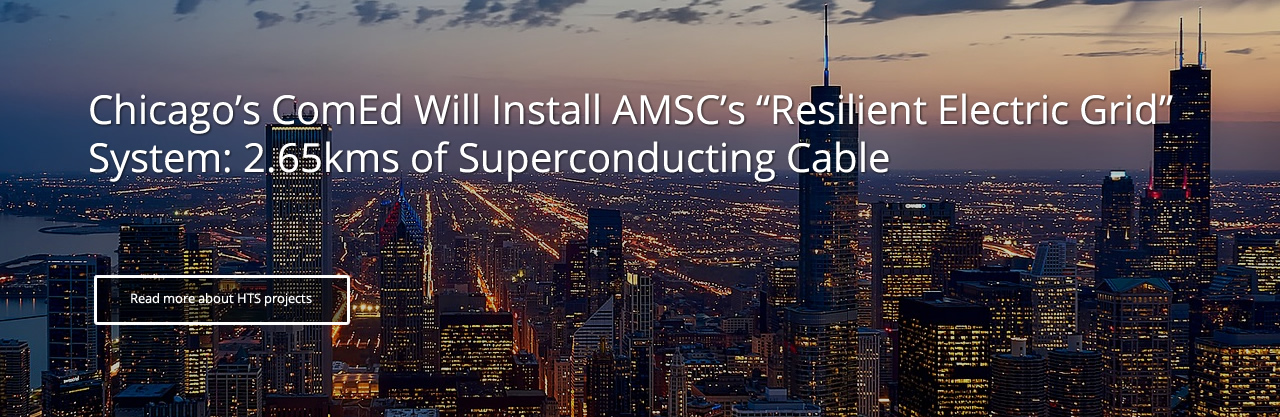
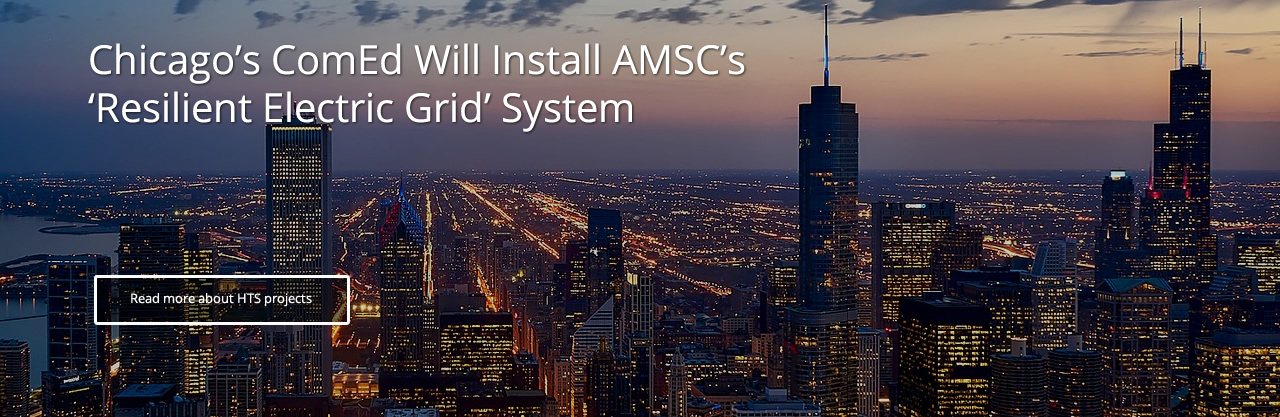
updated title and text

Changed region(s): [[0.0625, 0.0935, 0.9375, 0.3118], [0.0625, 0.3429, 0.7188, 0.4365]]

diff --git a/post/chicagos-comed-will-install-amscs-resilient-electric-grid-system/index.html b/post/chicagos-comed-will-install-amscs-resilient-electric-grid-system/index.html
@@ -4,7 +4,7 @@
     <meta charset="utf-8">
     <meta http-equiv="X-UA-Compatible" content="IE=edge,chrome=1">
     
-    <title>ieahts.org  | Chicago&#39;s ComEd Will Install AMSC&#39;s &#39;Resilient Electric Grid&#39; System: 2.65kms of Superconducting Cable</title>
+    <title>ieahts.org  | Chicago&#39;s ComEd Will Install AMSC&#39;s &#39;Resilient Electric Grid&#39; System</title>
     <meta name="HandheldFriendly" content="True">
     <meta name="MobileOptimized" content="320">
 
@@ -29,26 +29,26 @@
 
     
 
-    <meta property="og:title" content="Chicago&#39;s ComEd Will Install AMSC&#39;s &#39;Resilient Electric Grid&#39; System: 2.65kms of Superconducting Cable" />
-<meta property="og:description" content="With partial funding from the Department of Homeland Security, Chicago&#39;s ComEd and American Superconductor Corporation (AMCS) have agreed to install three 12kV 62 MVA fault-current-limiting superconductor cables in downtown Chicago that are expected to total over 2.5 kms in length, making I the longest high-temperature superconducting cable in the world to-date. The system will feature AMSC&#39;s latest Amperium® wire that will be installed along with other sub-system design elements that will allow ComEd to move power from any substation on its distribution grid to any other substation on the grid." />
+    <meta property="og:title" content="Chicago&#39;s ComEd Will Install AMSC&#39;s &#39;Resilient Electric Grid&#39; System" />
+<meta property="og:description" content="AMSC has entered into an agreement with ComEd, a northern Illinois utility, to deploy an HTS system to improve grid resilience. The project is structured as a cost-sharing arrangement among AMSC, ComEd and the U.S. Department of Homeland Security (DHS). The agreement between AMSC and ComEd, which includes commercial terms, remains subject to DHS approval. The system will feature AMSC&#39;s Amperium® wire that will be installed along with other sub-system design elements." />
 <meta property="og:type" content="article" />
 <meta property="og:url" content="https://ieahts.org/post/chicagos-comed-will-install-amscs-resilient-electric-grid-system/" /><meta property="article:published_time" content="2016-04-26T14:39:05-05:00"/>
 <meta property="article:modified_time" content="2016-04-26T14:39:05-05:00"/>
 
-<meta itemprop="name" content="Chicago&#39;s ComEd Will Install AMSC&#39;s &#39;Resilient Electric Grid&#39; System: 2.65kms of Superconducting Cable">
-<meta itemprop="description" content="With partial funding from the Department of Homeland Security, Chicago&#39;s ComEd and American Superconductor Corporation (AMCS) have agreed to install three 12kV 62 MVA fault-current-limiting superconductor cables in downtown Chicago that are expected to total over 2.5 kms in length, making I the longest high-temperature superconducting cable in the world to-date. The system will feature AMSC&#39;s latest Amperium® wire that will be installed along with other sub-system design elements that will allow ComEd to move power from any substation on its distribution grid to any other substation on the grid.">
+<meta itemprop="name" content="Chicago&#39;s ComEd Will Install AMSC&#39;s &#39;Resilient Electric Grid&#39; System">
+<meta itemprop="description" content="AMSC has entered into an agreement with ComEd, a northern Illinois utility, to deploy an HTS system to improve grid resilience. The project is structured as a cost-sharing arrangement among AMSC, ComEd and the U.S. Department of Homeland Security (DHS). The agreement between AMSC and ComEd, which includes commercial terms, remains subject to DHS approval. The system will feature AMSC&#39;s Amperium® wire that will be installed along with other sub-system design elements.">
 
 
 <meta itemprop="datePublished" content="2016-04-26T14:39:05-05:00" />
 <meta itemprop="dateModified" content="2016-04-26T14:39:05-05:00" />
-<meta itemprop="wordCount" content="131">
+<meta itemprop="wordCount" content="109">
 
 
 
 <meta itemprop="keywords" content="" />
 <meta name="twitter:card" content="summary"/>
-<meta name="twitter:title" content="Chicago&#39;s ComEd Will Install AMSC&#39;s &#39;Resilient Electric Grid&#39; System: 2.65kms of Superconducting Cable"/>
-<meta name="twitter:description" content="With partial funding from the Department of Homeland Security, Chicago&#39;s ComEd and American Superconductor Corporation (AMCS) have agreed to install three 12kV 62 MVA fault-current-limiting superconductor cables in downtown Chicago that are expected to total over 2.5 kms in length, making I the longest high-temperature superconducting cable in the world to-date. The system will feature AMSC&#39;s latest Amperium® wire that will be installed along with other sub-system design elements that will allow ComEd to move power from any substation on its distribution grid to any other substation on the grid."/>
+<meta name="twitter:title" content="Chicago&#39;s ComEd Will Install AMSC&#39;s &#39;Resilient Electric Grid&#39; System"/>
+<meta name="twitter:description" content="AMSC has entered into an agreement with ComEd, a northern Illinois utility, to deploy an HTS system to improve grid resilience. The project is structured as a cost-sharing arrangement among AMSC, ComEd and the U.S. Department of Homeland Security (DHS). The agreement between AMSC and ComEd, which includes commercial terms, remains subject to DHS approval. The system will feature AMSC&#39;s Amperium® wire that will be installed along with other sub-system design elements."/>
 
   </head>
 
@@ -135,7 +135,7 @@
       
 <div class="pageWidth">
     <h1 class="f1 athelas">
-        Chicago&#39;s ComEd Will Install AMSC&#39;s &#39;Resilient Electric Grid&#39; System: 2.65kms of Superconducting Cable
+        Chicago&#39;s ComEd Will Install AMSC&#39;s &#39;Resilient Electric Grid&#39; System
       </h1>
     <div id="dnn_LeftPane" class="leftPane">
     <article class="center cf pv5 ph3 ph4-ns mw7">      
@@ -145,7 +145,7 @@
       
       <section class="nested-copy-line-height lh-copy serif f4 nested-links nested-img mid-gray">
         <p><img src="https://ieahts.org/images/chicago-1804479_1920.jpg"></p>
-<p>With partial funding from the Department of Homeland Security, Chicago's ComEd and American Superconductor Corporation (AMCS) have agreed to install three 12kV 62 MVA fault-current-limiting superconductor cables in downtown Chicago that are expected to total over 2.5 kms in length, making I the longest high-temperature superconducting cable in the world to-date. The system will feature AMSC's latest Amperium® wire that will be installed along with other sub-system design elements that will allow ComEd to move power from any substation on its distribution grid to any other substation on the grid. This, currently, is not possible without high-temperature superconductivity technology. Construction, which has yet to begin, is subject to DHS approval, but the system could be operational by as early as 2021 when it will become a permanent component of ComEd's grid.</p>
+<p>AMSC has entered into an agreement with ComEd, a northern Illinois utility, to deploy an HTS system to improve grid resilience.  The project is structured as a cost-sharing arrangement among AMSC, ComEd and the U.S. Department of Homeland Security (DHS). The agreement between AMSC and ComEd, which includes commercial terms, remains subject to DHS approval. The system will feature AMSC's Amperium® wire that will be installed along with other sub-system design elements. This will allow ComEd to move power around its urban substations for improved grid resilience. This, currently, is not possible without high-temperature superconductivity. It is expected that the cable will become a permanent component of ComEd's grid.</p>
 
       </section>
       
@@ -184,7 +184,7 @@
         <li class="list f5 w-100 hover-bg-white nl1">
           
           <a href="https://ieahts.org/post/chicagos-comed-will-install-amscs-resilient-electric-grid-system/" class="link ph2 pv2 db black o-50">
-            Chicago&#39;s ComEd Will Install AMSC&#39;s &#39;Resilient Electric Grid&#39; System: 2.65kms of Superconducting Cable
+            Chicago&#39;s ComEd Will Install AMSC&#39;s &#39;Resilient Electric Grid&#39; System
           </a>
         </li>
       

diff --git a/post/index.html b/post/index.html
@@ -197,18 +197,18 @@
     <div class="content">
       
         <div class="article_image">
-          <img src="https://ieahts.org/images/chicago-1804479_1920.jpg" class="db" alt="image from Chicago&#39;s ComEd Will Install AMSC&#39;s &#39;Resilient Electric Grid&#39; System: 2.65kms of Superconducting Cable">
+          <img src="https://ieahts.org/images/chicago-1804479_1920.jpg" class="db" alt="image from Chicago&#39;s ComEd Will Install AMSC&#39;s &#39;Resilient Electric Grid&#39; System">
         </div>
       
       <div class="bg-white mb3 pa4 gray overflow-hidden">
 
         <h1 class="f3 near-black">
           <a href="https://ieahts.org/post/chicagos-comed-will-install-amscs-resilient-electric-grid-system/" class="link black dim">
-            Chicago&#39;s ComEd Will Install AMSC&#39;s &#39;Resilient Electric Grid&#39; System: 2.65kms of Superconducting Cable
+            Chicago&#39;s ComEd Will Install AMSC&#39;s &#39;Resilient Electric Grid&#39; System
           </a>
         </h1>
         <div class="nested-links f5 lh-copy nested-copy-line-height">
-          With partial funding from the Department of Homeland Security, Chicago's ComEd and American Superconductor Corporation (AMCS) have agreed to install three 12kV 62 MVA fault-current-limiting superconductor cables in downtown Chicago that are expected to total over 2.5 kms in length, making I the longest high-temperature superconducting cable in the world to-date. The system will feature AMSC's latest Amperium® wire that will be installed along with other sub-system design elements that will allow ComEd to move power from any substation on its distribution grid to any other substation on the grid.
+          AMSC has entered into an agreement with ComEd, a northern Illinois utility, to deploy an HTS system to improve grid resilience. The project is structured as a cost-sharing arrangement among AMSC, ComEd and the U.S. Department of Homeland Security (DHS). The agreement between AMSC and ComEd, which includes commercial terms, remains subject to DHS approval. The system will feature AMSC's Amperium® wire that will be installed along with other sub-system design elements.
         </div>
           
       </div>

diff --git a/post/advanced-superconductor-manufacturing-institute-asmi-in-the-united-states/index.html b/post/advanced-superconductor-manufacturing-institute-asmi-in-the-united-states/index.html
@@ -183,7 +183,7 @@
         <li class="list f5 w-100 hover-bg-white nl1">
           
           <a href="https://ieahts.org/post/chicagos-comed-will-install-amscs-resilient-electric-grid-system/" class="link ph2 pv2 db black">
-            Chicago&#39;s ComEd Will Install AMSC&#39;s &#39;Resilient Electric Grid&#39; System: 2.65kms of Superconducting Cable
+            Chicago&#39;s ComEd Will Install AMSC&#39;s &#39;Resilient Electric Grid&#39; System
           </a>
         </li>
       

diff --git a/post/ampacity-cable-and-fault-current-limiter-in-essen-germany/index.html b/post/ampacity-cable-and-fault-current-limiter-in-essen-germany/index.html
@@ -184,7 +184,7 @@
         <li class="list f5 w-100 hover-bg-white nl1">
           
           <a href="https://ieahts.org/post/chicagos-comed-will-install-amscs-resilient-electric-grid-system/" class="link ph2 pv2 db black">
-            Chicago&#39;s ComEd Will Install AMSC&#39;s &#39;Resilient Electric Grid&#39; System: 2.65kms of Superconducting Cable
+            Chicago&#39;s ComEd Will Install AMSC&#39;s &#39;Resilient Electric Grid&#39; System
           </a>
         </li>
       

diff --git a/post/dc-cable-for-train-operation-in-the-izu-district-japan/index.html b/post/dc-cable-for-train-operation-in-the-izu-district-japan/index.html
@@ -184,7 +184,7 @@
         <li class="list f5 w-100 hover-bg-white nl1">
           
           <a href="https://ieahts.org/post/chicagos-comed-will-install-amscs-resilient-electric-grid-system/" class="link ph2 pv2 db black">
-            Chicago&#39;s ComEd Will Install AMSC&#39;s &#39;Resilient Electric Grid&#39; System: 2.65kms of Superconducting Cable
+            Chicago&#39;s ComEd Will Install AMSC&#39;s &#39;Resilient Electric Grid&#39; System
           </a>
         </li>
       

diff --git a/post/hts-dc-ac-cable-test-in-jeju-korea/index.html b/post/hts-dc-ac-cable-test-in-jeju-korea/index.html
@@ -184,7 +184,7 @@
         <li class="list f5 w-100 hover-bg-white nl1">
           
           <a href="https://ieahts.org/post/chicagos-comed-will-install-amscs-resilient-electric-grid-system/" class="link ph2 pv2 db black">
-            Chicago&#39;s ComEd Will Install AMSC&#39;s &#39;Resilient Electric Grid&#39; System: 2.65kms of Superconducting Cable
+            Chicago&#39;s ComEd Will Install AMSC&#39;s &#39;Resilient Electric Grid&#39; System
           </a>
         </li>
       

diff --git a/post/hts-dc-cable-for-data-center-in-hokkaido-japan/index.html b/post/hts-dc-cable-for-data-center-in-hokkaido-japan/index.html
@@ -186,7 +186,7 @@
         <li class="list f5 w-100 hover-bg-white nl1">
           
           <a href="https://ieahts.org/post/chicagos-comed-will-install-amscs-resilient-electric-grid-system/" class="link ph2 pv2 db black">
-            Chicago&#39;s ComEd Will Install AMSC&#39;s &#39;Resilient Electric Grid&#39; System: 2.65kms of Superconducting Cable
+            Chicago&#39;s ComEd Will Install AMSC&#39;s &#39;Resilient Electric Grid&#39; System
           </a>
         </li>
       

diff --git a/post/resilient-electric-grid-project-in-the-united-states/index.html b/post/resilient-electric-grid-project-in-the-united-states/index.html
@@ -183,7 +183,7 @@
         <li class="list f5 w-100 hover-bg-white nl1">
           
           <a href="https://ieahts.org/post/chicagos-comed-will-install-amscs-resilient-electric-grid-system/" class="link ph2 pv2 db black">
-            Chicago&#39;s ComEd Will Install AMSC&#39;s &#39;Resilient Electric Grid&#39; System: 2.65kms of Superconducting Cable
+            Chicago&#39;s ComEd Will Install AMSC&#39;s &#39;Resilient Electric Grid&#39; System
           </a>
         </li>
       

diff --git a/post/siemens-scfl-in-germanys-stadwerke-grid/index.html b/post/siemens-scfl-in-germanys-stadwerke-grid/index.html
@@ -185,7 +185,7 @@
         <li class="list f5 w-100 hover-bg-white nl1">
           
           <a href="https://ieahts.org/post/chicagos-comed-will-install-amscs-resilient-electric-grid-system/" class="link ph2 pv2 db black">
-            Chicago&#39;s ComEd Will Install AMSC&#39;s &#39;Resilient Electric Grid&#39; System: 2.65kms of Superconducting Cable
+            Chicago&#39;s ComEd Will Install AMSC&#39;s &#39;Resilient Electric Grid&#39; System
           </a>
         </li>
       
